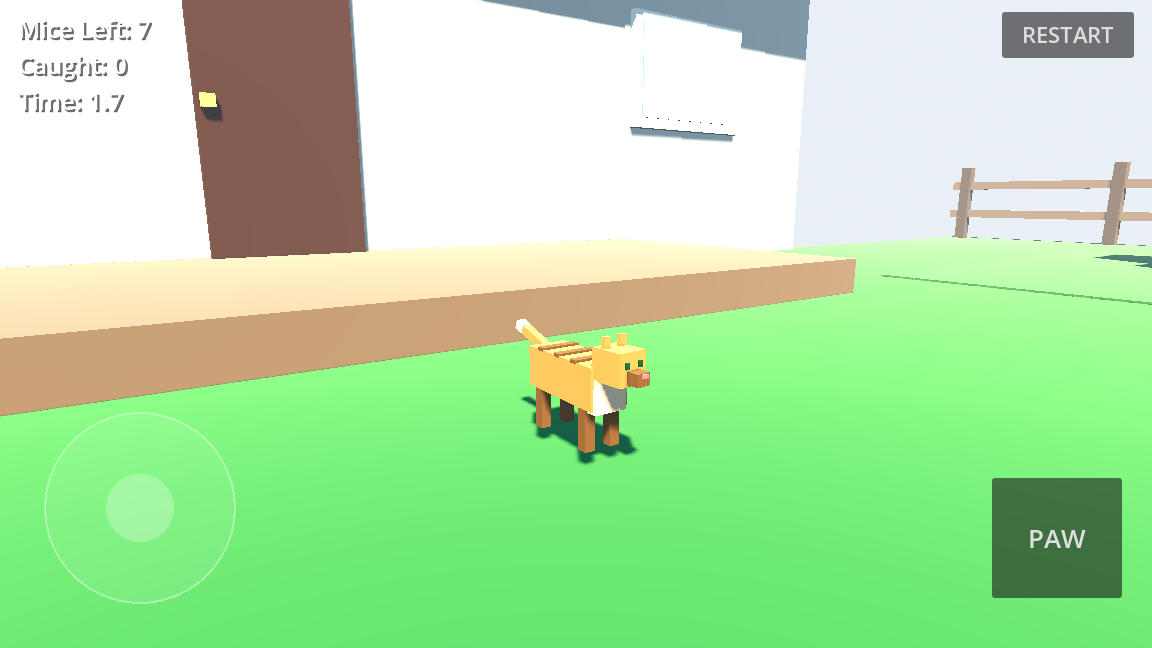
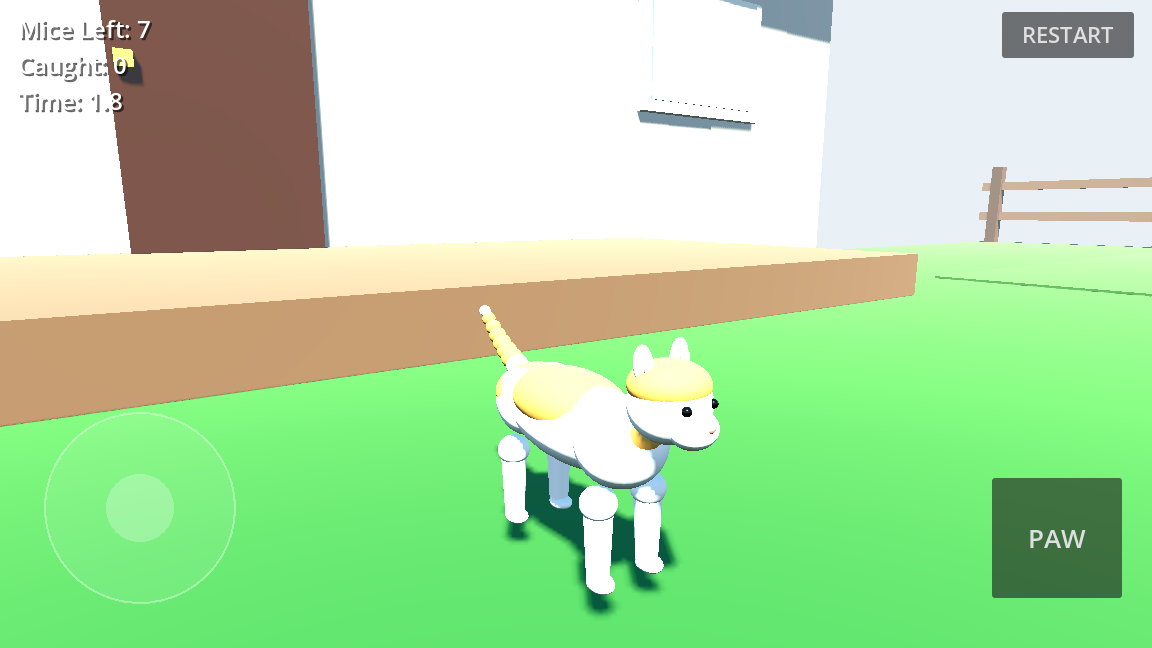
Remodel Willy: smooth primitives + his exact v0.1 colouring
cat.gd rebuilt from smooth primitives (ellipsoid torso/chest/haunches, sphere skull + muzzle, pinched-sphere ears, tapered-cylinder legs, 9-segment sphere-chain tail) on the same GTA anchor layout and pivots — no more boxes, no tabby stripes. Colouring is Willy's own, sampled from the original v0.1 hand-drawn art (reference-willy-v01.png, now in cat_kit/): white coat, ginger #E8AF54 saddle/cap/chest-bib/tail-rear, pink nose #D98C7A — replacing GTA stray_cat's solid orange, which is a different cat. cat_species.json gains the palette + provenance (GTA orange kept as gta.coat_in_gta provenance only). Smoke 32/32 incl. 3 new data-level palette checks (torso albedo == palette white, saddle albedo == palette ginger). Standing screenshots re-shot; web export still completes.

diff --git a/godot3d/cat_kit/README.md b/godot3d/cat_kit/README.md
@@ -30,16 +30,31 @@ GTA's river cat **Wolastoq Willow** is defined with, in
   meshes are cached `BoxMesh`es keyed by size (`_mat` / `_box`,
   lines 739-763).
 
-`cat.gd` reproduces that construction part for part (same sizes,
-positions, colours, forward axis, scale), so a side-by-side render
-against GTA's stray_cat matches. `cat_species.json` carries the
+`cat.gd` keeps that construction's architecture — same unit frame,
+forward axis, anchor positions (head, hips, tail base), species scale,
+Body-group-as-child-0 and legs-on-the-root structure — so the port
+path below is unchanged. What changed in the v0.1-colouring remodel:
+the parts are **smooth primitives**, not boxes — ellipsoid torso with
+blended chest and haunch spheres, a sphere skull with muzzle, pinched-
+sphere ears, tapered-cylinder legs with capsule paws, and a tail made
+of a curved chain of shrinking spheres. `cat_species.json` carries the
 identity, palette, scale, GTA stat block and game tuning.
 
-Kit refinements (geometry identical; wrappers and small additions):
-each leg sits under a hip pivot, the head under a neck pivot, and the
-tail under a base pivot, so parts can swing; plus tabby stripes, a pale
-chest patch, nose and eyes. GTA cats cast no shadows (city perf);
-this hero cat leaves shadow casting on.
+Colouring is Willy's own, sampled from the original v0.1 hand-drawn
+kitten art (`reference-willy-v01.png`, kept beside this README; the
+identical sprite ships in every version of the game): a **white coat**
+with **ginger patches (#E8AF54)** — a saddle along the spine sweeping
+into the tail, a cap on top of the head between the ears, a small
+chest bib, and ginger along the tail's rear — plus dark eyes and a
+small pink nose. It is deliberately **not** GTA stray_cat's solid
+orange (0.85, 0.55, 0.25): that is a different cat, and it is recorded
+in the JSON (`gta.coat_in_gta`) as provenance only. There are no tabby
+stripes — an earlier build invented them; the v0.1 art has none.
+
+Kit refinements over the GTA original: each leg sits under a hip
+pivot, the head under a neck pivot, and the tail under a base pivot,
+so parts can swing. GTA cats cast no shadows (city perf); this hero
+cat leaves shadow casting on.
 
 ## Animation states (all in code, poses are functions of state+time)
 
@@ -70,11 +85,13 @@ damage)` forwards to `Wildlife.hurt_animal(animal, dir, damage)`.
 Three ways in, in increasing order of ambition:
 
 1. **Model swap (mechanical, an afternoon):** replace the stray_cat
-   branch of `_build_mesh()` with `PvKCat.build_standalone()` — i.e.
-   call the kit's builder to produce the same root Node3D GTA
-   expects (child 0 = Body group, legs on the root, root scaled
-   0.32, forward -Z). GTA's dictionary brain, habitats, hostility
-   and hitbox attach unchanged. Willow gets leg swings and a real
+   branch of `_build_mesh()` with the kit's builder to produce the
+   same root Node3D GTA expects (child 0 = Body group, legs on the
+   root, root scaled 0.32, forward -Z). GTA's dictionary brain, habitats, hostility
+   and hitbox attach unchanged. The palette travels as data
+   (`cat_species.json`), so the port is unaffected by colouring: a
+   swapped-in cat can wear Willy's white-and-ginger or be restyled
+   per species without touching the builder. Willow gets leg swings and a real
    lounge for free, because the kit's pivots accept the same
    body-bob writes `_step()` already makes.
 2. **Brain transplant:** keep GTA's Dictionary entry but drive the

diff --git a/godot3d/README.md b/godot3d/README.md
@@ -1,17 +1,21 @@
 # Puppies vs Kittens 3D — cat-first edition (v0.4)
 
 The 3D revamp of Puppies vs Kittens, rebuilt in Godot 4.7 in the visual
-language of GTA Fredericton: procedural flat-colour box meshes, real
-metre scale, directional sun + sky ambience, light fog. The Java v0.2
+language of GTA Fredericton: procedural flat-colour meshes, real
+metre scale, directional sun + sky ambience, light fog — the yard in
+GTA's box idiom, the cat modelled smooth from ellipsoids and tapered
+cylinders (see `cat_kit/`). The Java v0.2
 original and the 2D Godot port (branch `godot-revamp`) are untouched.
 
 **Scope of this edition: play as the cat.** No bird mode, no birds of
 any kind. Puppies are Phase 2.
 
 You are **Willy** — a boy cat, built by `cat_kit/` to GTA Fredericton's
-`stray_cat` construction from `scripts/world/wildlife.gd` (orange coat,
-0.32 scale, quad frame) — the same construction GTA's river cat Willow
-uses, but Willy is his own cat. Catch all 7 mice in the backyard. Win,
+`stray_cat` construction from `scripts/world/wildlife.gd` (0.32 scale,
+quad-frame anchors) — the same construction GTA's river cat Willow
+uses, but Willy is his own cat, and he wears his own colouring from
+the original v0.1 hand-drawn art: a white coat with ginger patches,
+not GTA's orange. Catch all 7 mice in the backyard. Win,
 and he does his lounge flop.
 
 The cat is the real deliverable: `cat_kit/` is a self-contained package
